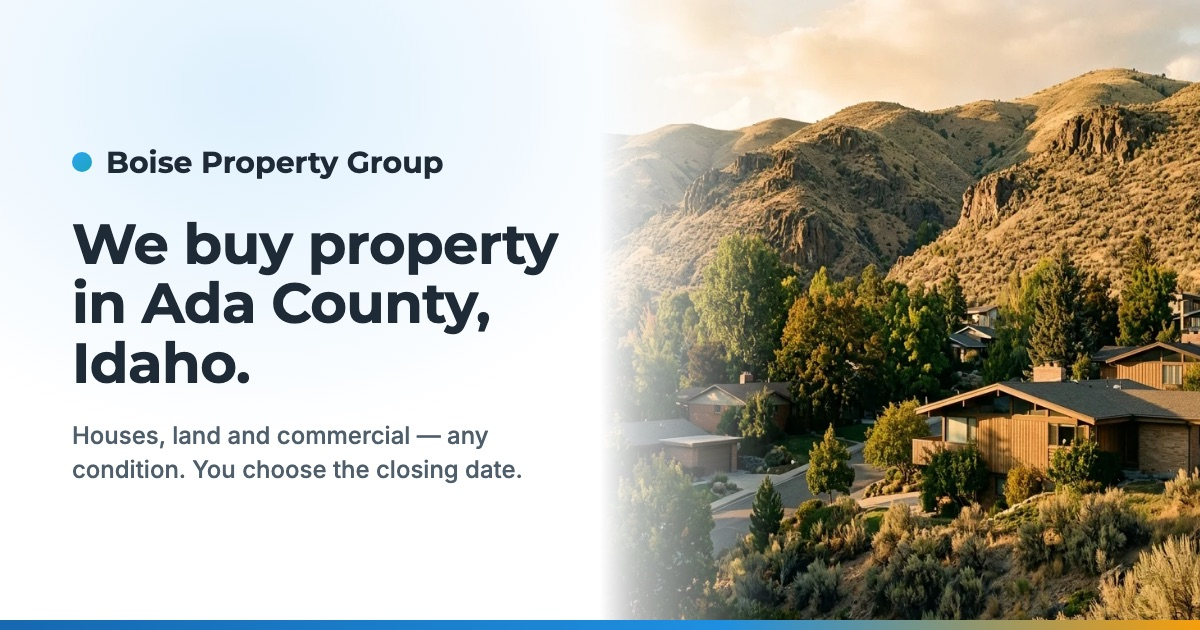
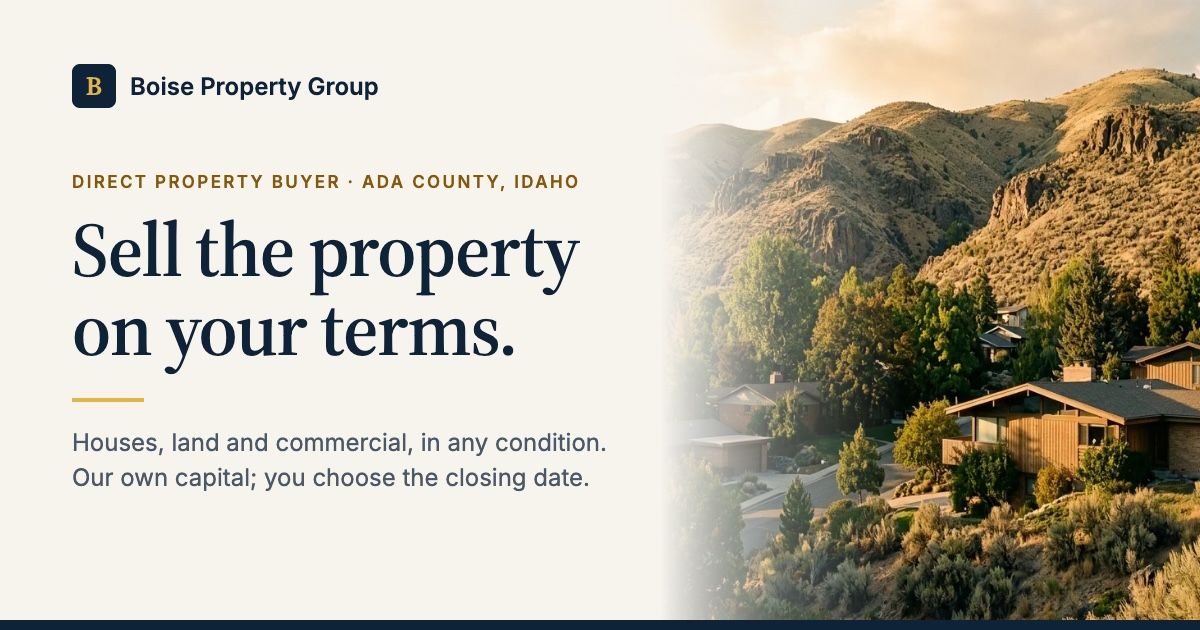
Share image redrawn in the editorial palette

diff --git a/src/lib/seo/meta.ts b/src/lib/seo/meta.ts
@@ -11,7 +11,7 @@ export const OG_IMAGE = {
   url: "/og.jpg",
   width: 1200,
   height: 630,
-  alt: "Boise Property Group — we buy property in Ada County, Idaho",
+  alt: "Boise Property Group — sell the property on your terms. Direct property buyer in Ada County, Idaho",
 };
 
 /**
